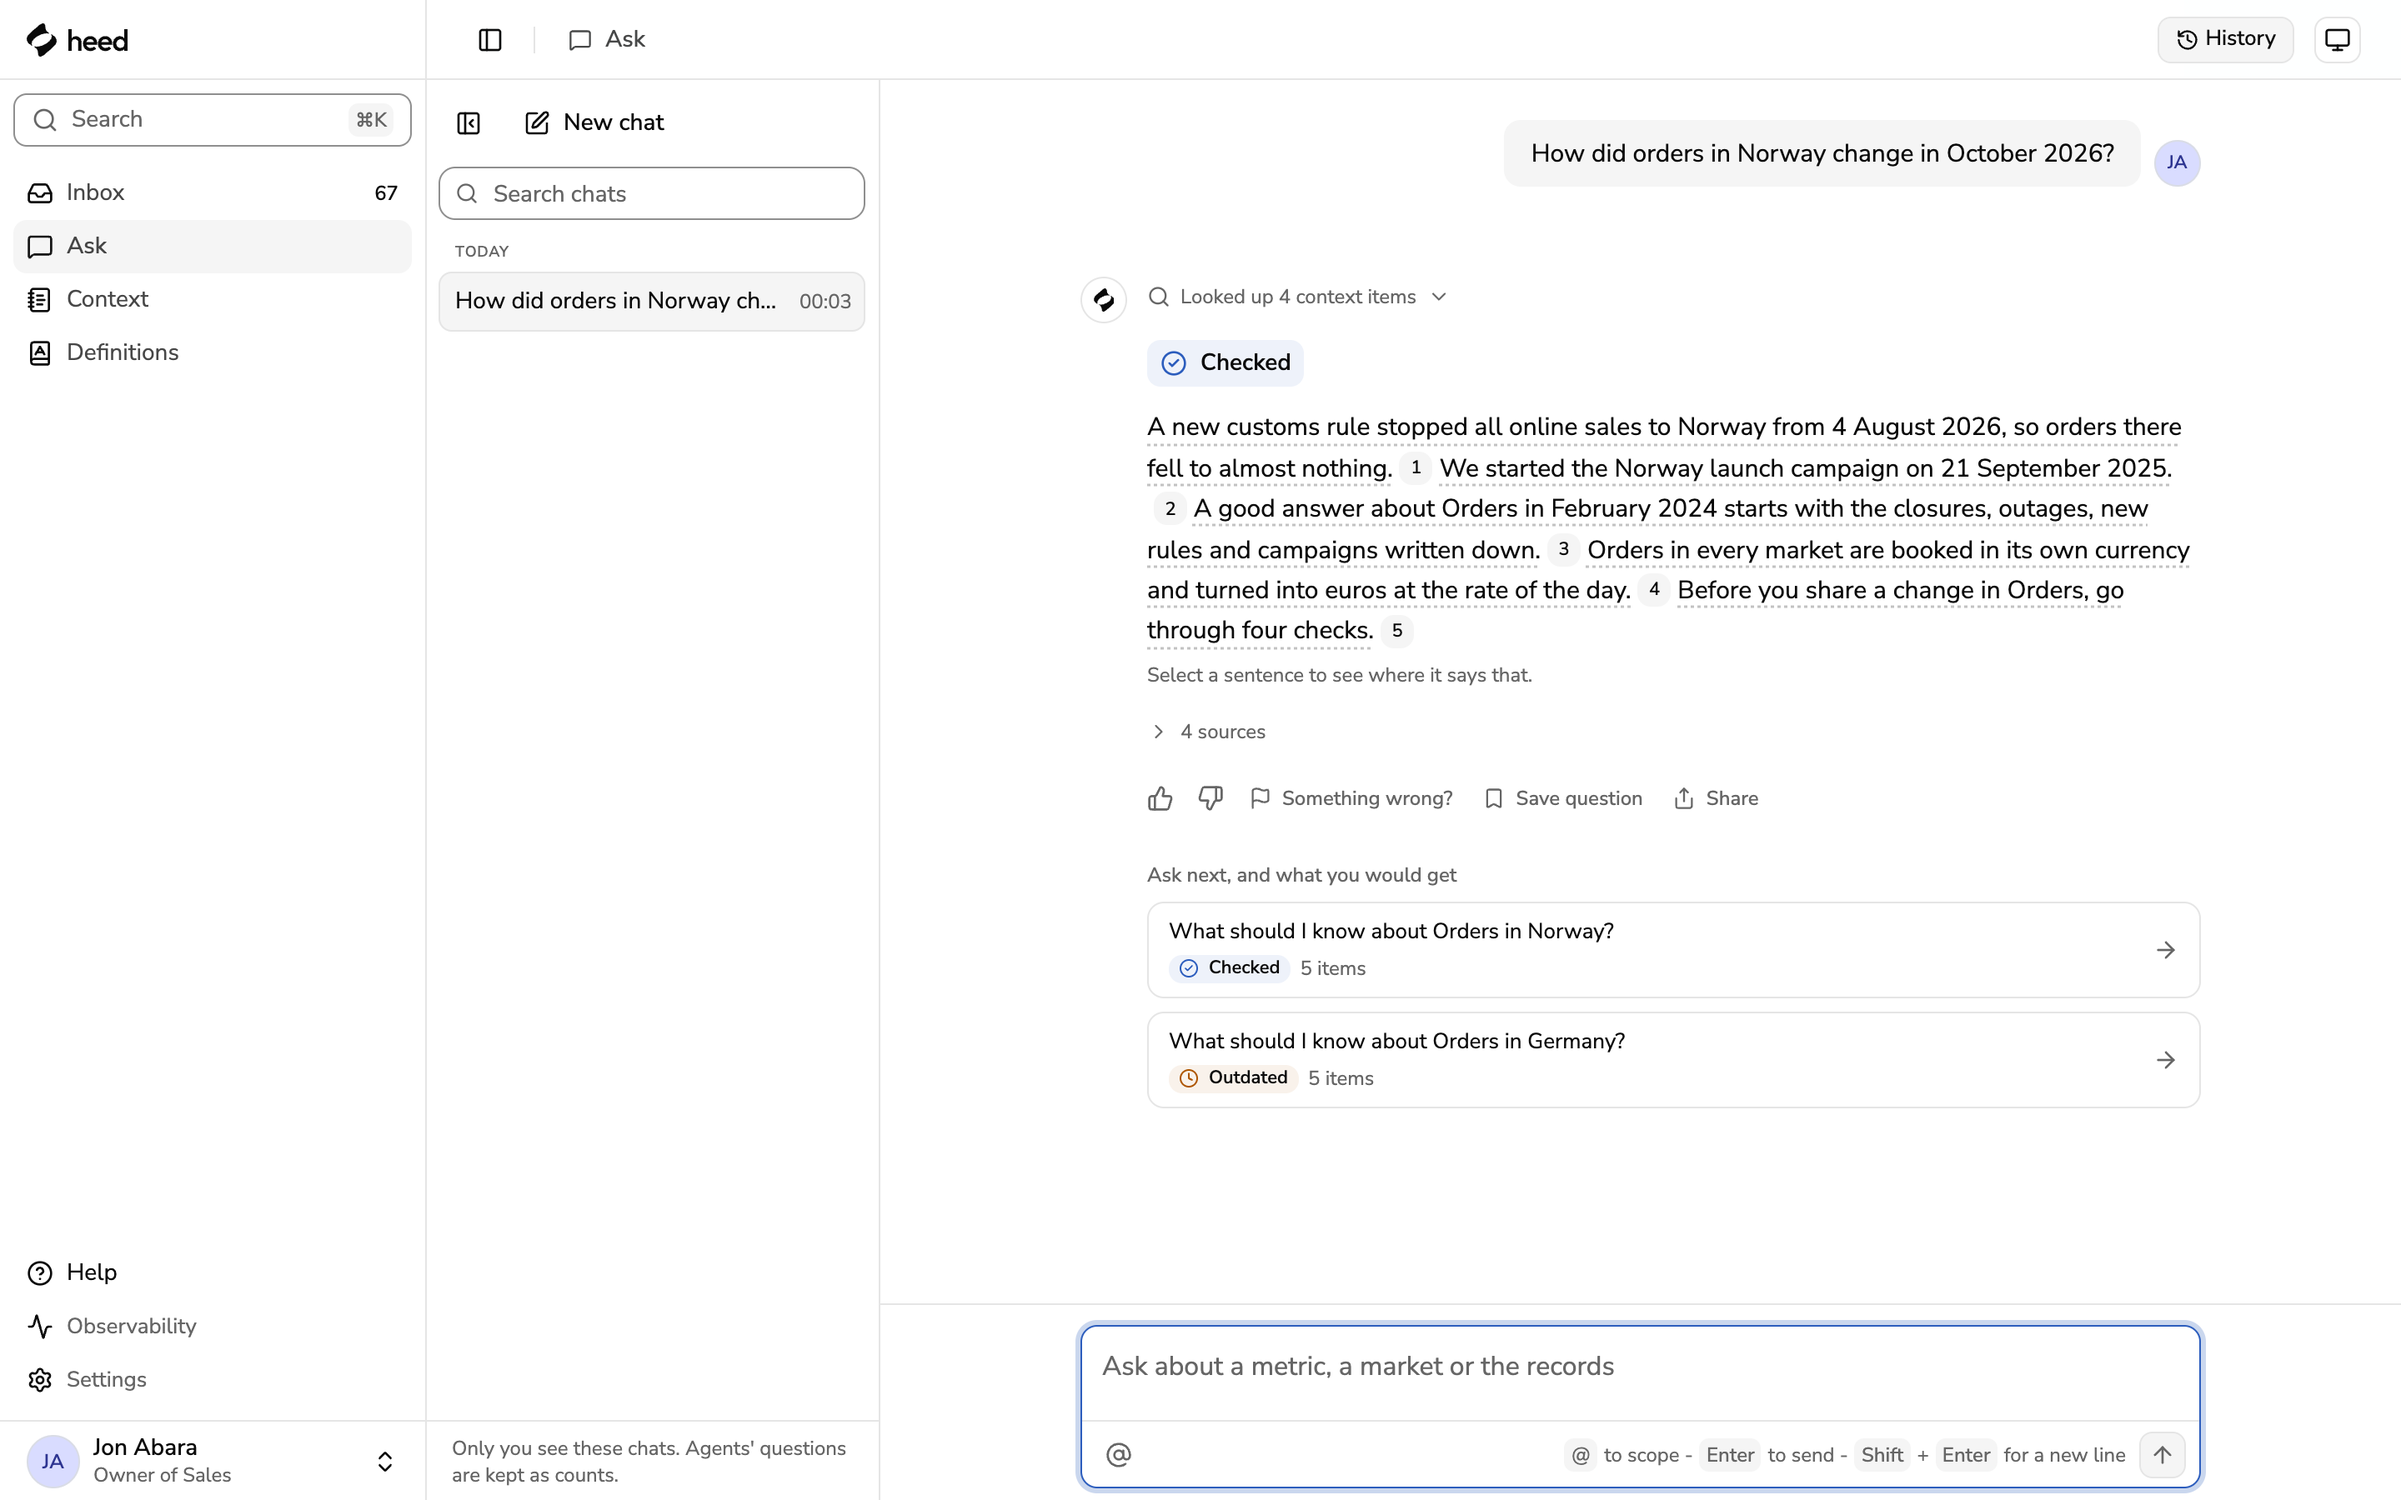
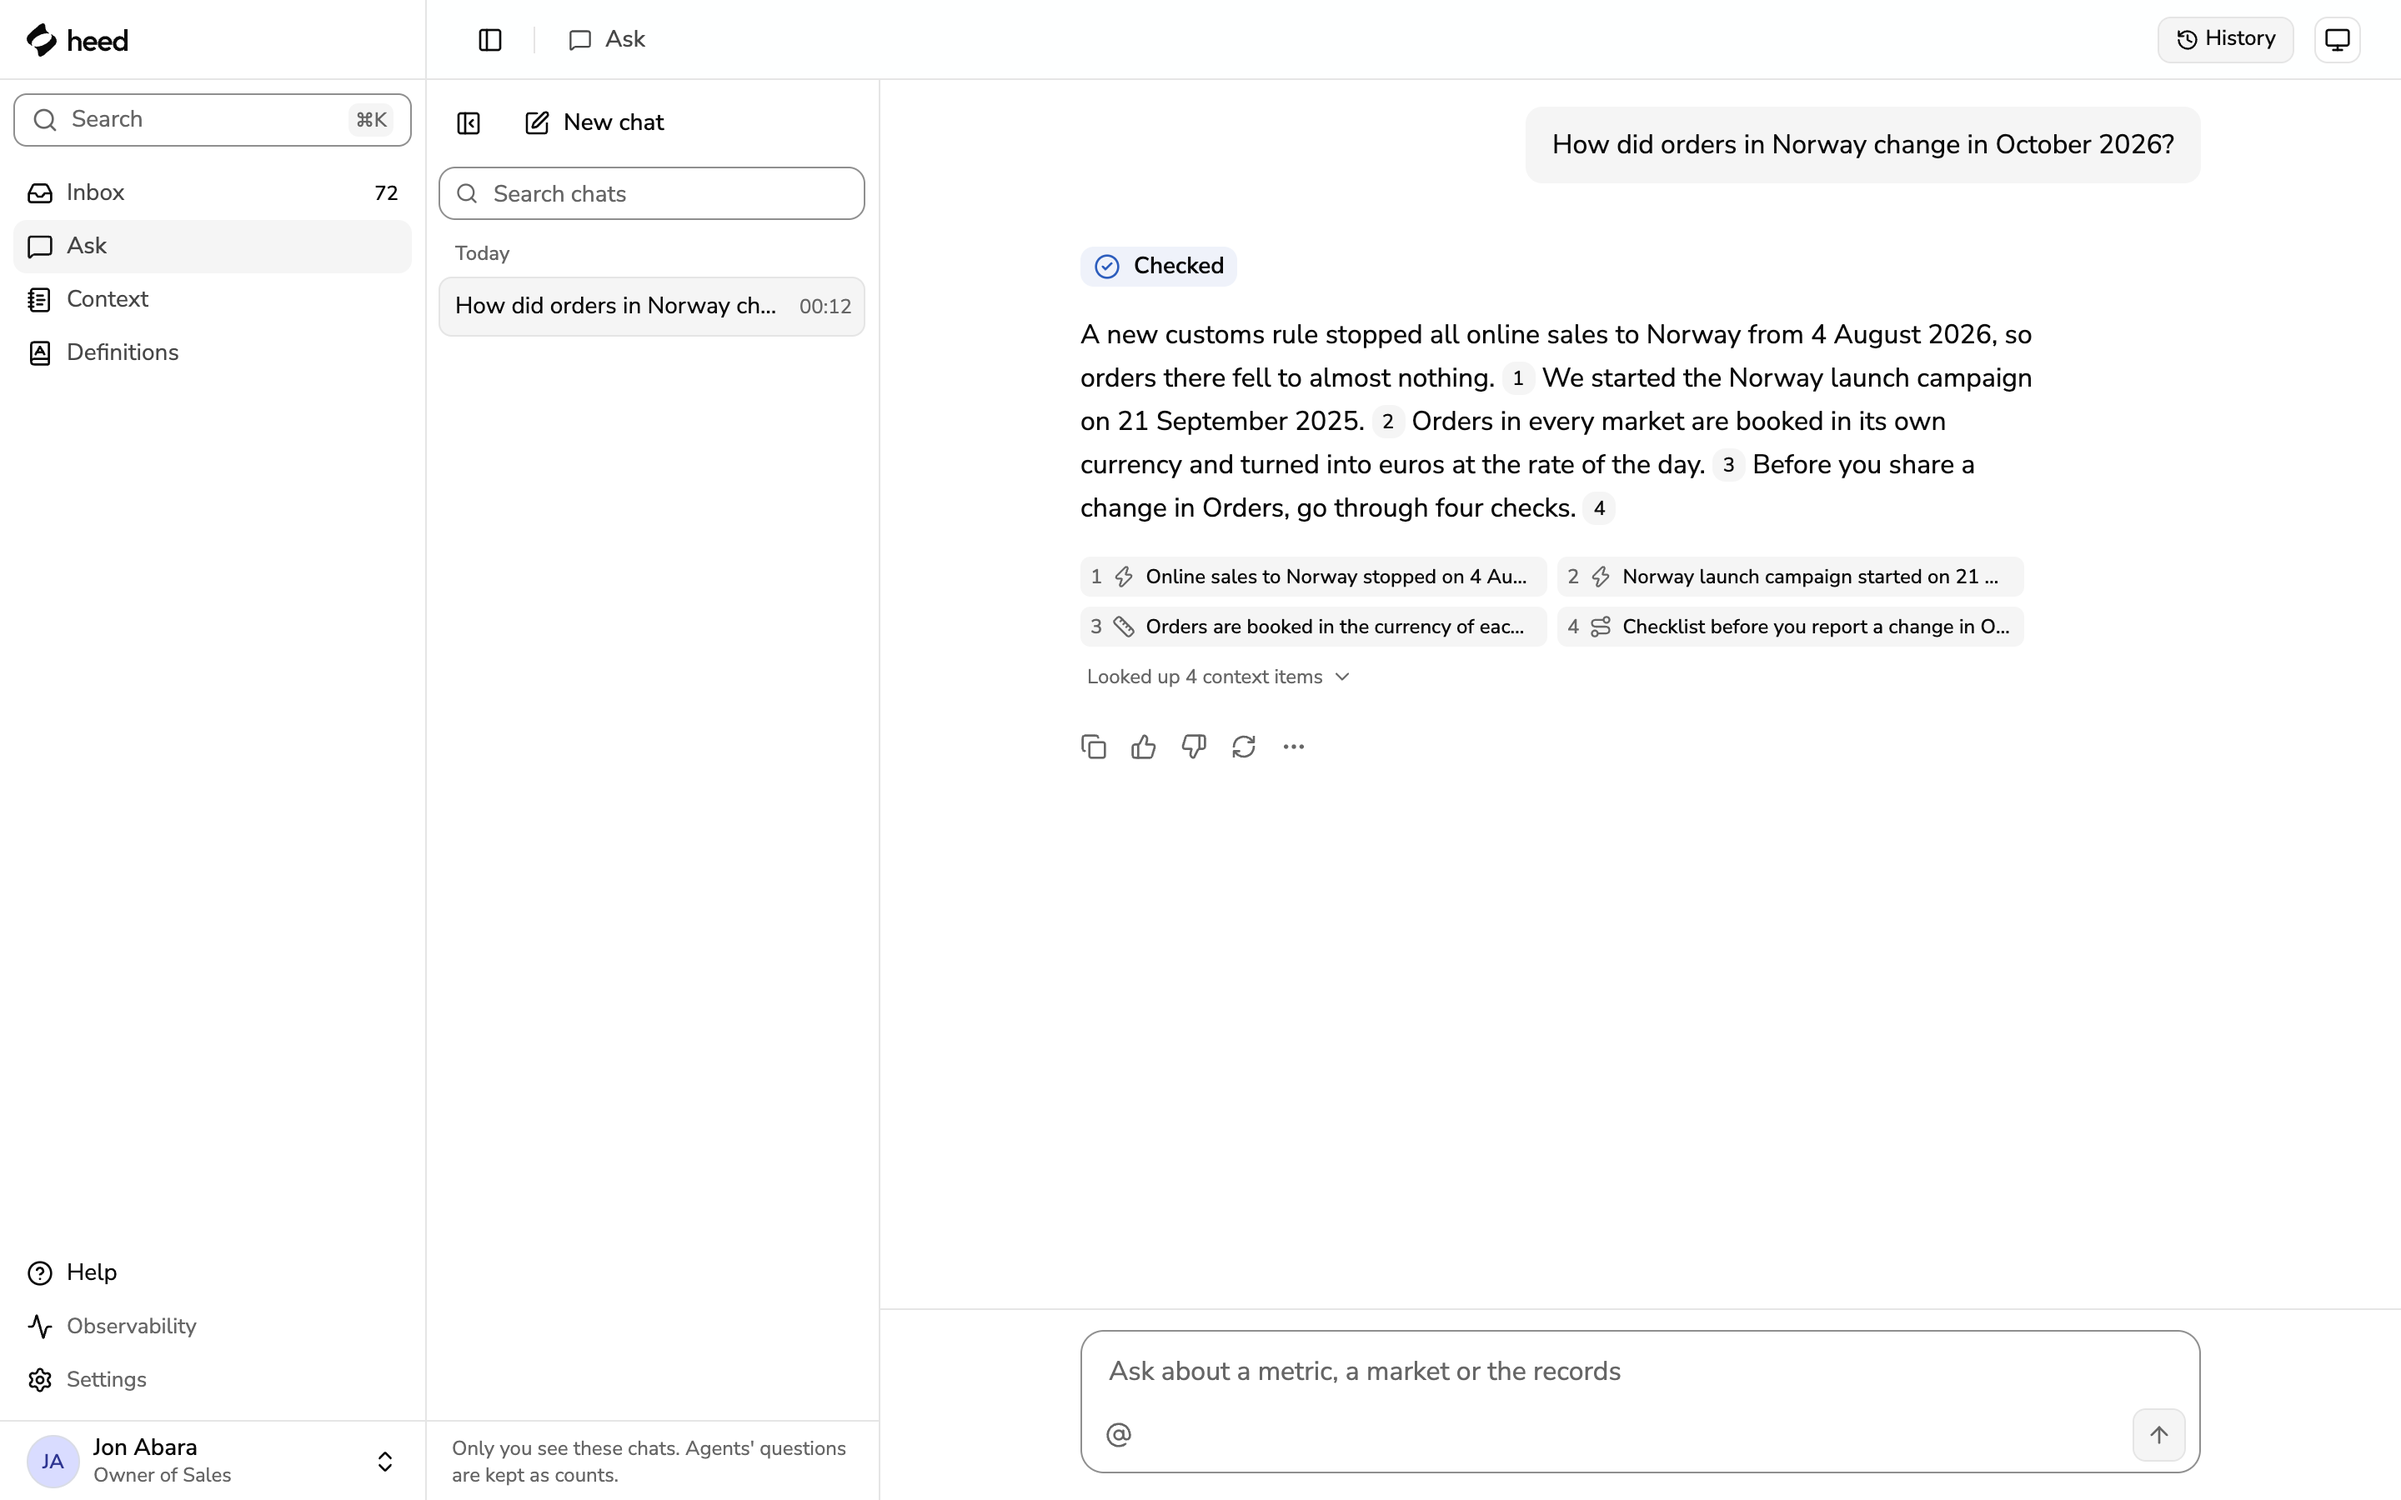
docs(readme): retake the screenshots and add a recording of Ask and the Inbox
Taken from the docker compose demo after the Ask work merged, and rewrite
the alt texts and the Observability caption to match the new screens.

diff --git a/README.md b/README.md
@@ -22,7 +22,7 @@ and agents read it over MCP before they answer, with its source and its owner.
 
 <br>
 
-<img alt="Heed's Ask page on the demo. Asked how orders in Norway changed in October 2026, it answers Checked: a new customs rule stopped all online sales to Norway from 4 August 2026, so orders there fell to almost nothing, then the other context items that apply, each with its number." src="docs/images/hero.png" width="760">
+<img alt="Heed's Ask page on the demo. Asked how orders in Norway changed in October 2026, it answers Checked: a new customs rule stopped all online sales to Norway from 4 August 2026, so orders there fell to almost nothing, then the other context items that apply. Each sentence carries the number of the source it came from." src="docs/images/hero.png" width="760">
 
 </div>
 
@@ -141,16 +141,20 @@ this checkout, which is ahead of the latest release.
 
 ## What you get
 
+<p align="center">
+  <img alt="A short recording on the demo. Someone asks how orders in Norway changed in October 2026, and Ask answers Checked with four numbered sources. Then the Inbox of the owner of Sales opens on a conflict agents met about United Kingdom orders, both items side by side." src="docs/images/ask-and-inbox.gif" width="760">
+</p>
+
 <table>
   <tr>
-    <td width="33%"><img alt="The Inbox of the owner of Sales: what agents asked this week and what needs them, by kind, with a conflict agents met about United Kingdom orders open beside it, both items side by side" src="docs/images/inbox.png"></td>
+    <td width="33%"><img alt="The Inbox of the owner of Sales: what agents asked this week and what needs them, by kind, with a conflict agents met about United Kingdom orders open beside it: both items side by side, and Compare and decide" src="docs/images/inbox.png"></td>
     <td width="33%"><img alt="A review: a suggestion to change a context item, what it changes, how it relates to the live items it overlaps, and what agents will say after it is published" src="docs/images/review.png"></td>
-    <td width="33%"><img alt="Observability: what agents asked this week and how it was answered, in counts only, with the top topics" src="docs/images/observability.png"></td>
+    <td width="33%"><img alt="Observability's Overview for the owner of Sales: views for all topics and what needs a look, a filter bar and facets, this week's numbers (113 questions asked, 27% checked, 15 not found), questions per day by answer, and the topics agents asked about. Counts only." src="docs/images/observability.png"></td>
   </tr>
   <tr>
     <td align="center"><sub>One Inbox for owners</sub></td>
     <td align="center"><sub>Review with what agents will say</sub></td>
-    <td align="center"><sub>Observability, counts only</sub></td>
+    <td align="center"><sub>What agents asked, day by day, counts only</sub></td>
   </tr>
 </table>
 
@@ -167,6 +171,8 @@ this checkout, which is ahead of the latest release.
   [Agent tools](docs/help/tools.md).
 - **No AI picks the context.** Rules choose what applies from the question's metrics, markets and dates, so the
   same question gets the same items until an owner publishes a change. Ask shows exactly that.
+- **Ask about the context itself.** Ask what is missing, stale, conflicting or unowned, and Heed counts it from its own
+  records, says out of how many, and says what it can't see.
 - **Gaps and saved questions.** Questions that found nothing are counted by topic, so people write what's
   missing. Saved questions are answered again after every change, so a publish that makes an answer worse is
   seen at once. Heed never records who asked.
